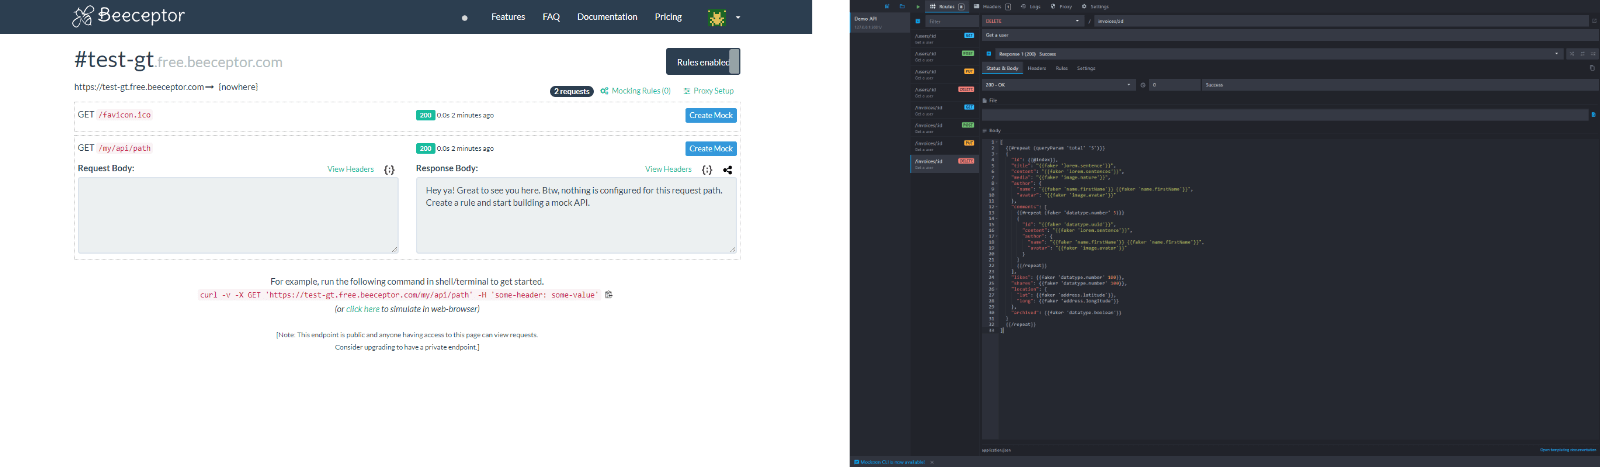
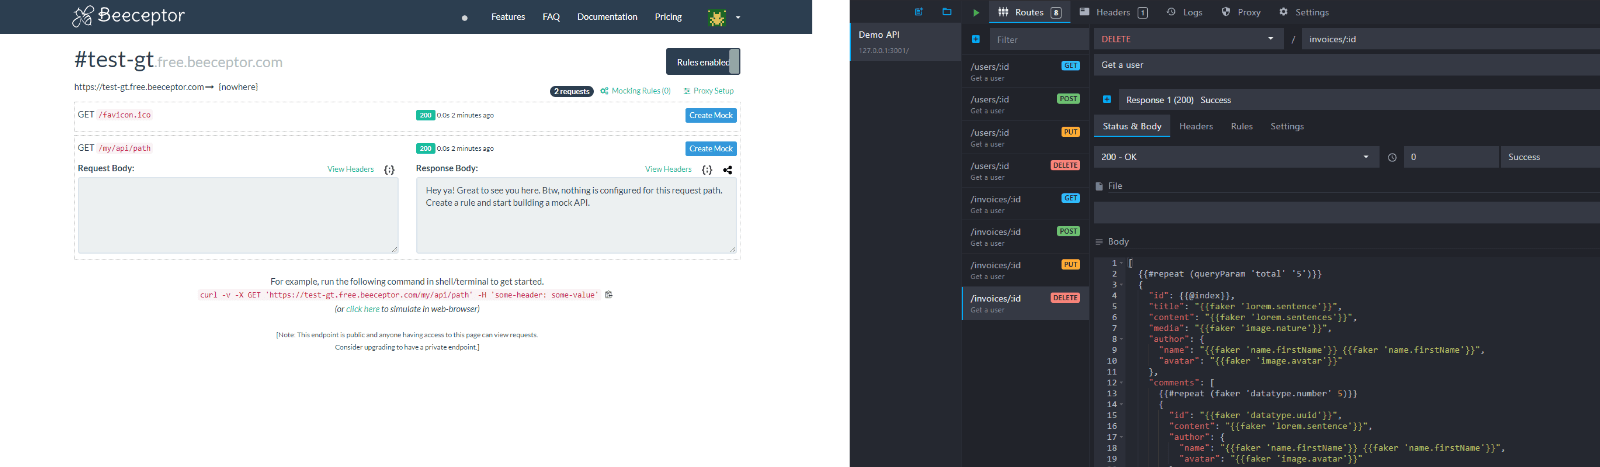
Add wiremock and mocklab comparisons

diff --git a/content/compare/wiremock.md b/content/compare/wiremock.md
@@ -1,0 +1,43 @@
+---
+title: Comparison between Mockoon and WireMock API mocking
+excerpt: Discover the differences between WireMock API mocking and Mockoon's desktop application and CLI mocking features
+meta:
+  title: Comparison between Mockoon and WireMock API mocking
+  description: Discover the differences between WireMock API mocking and Mockoon's desktop application and CLI mocking features
+image: comparison-mockoon-wiremock.png
+imageAlt: Mockoon and WireMock logos side by side
+imageWidth: 1200
+imageHeight: 400
+order: 3
+---
+
+WireMock is a mocking or stubbing Java library. It enables developers to create mock REST APIs programmatically in their Java applications. Coupled with WireMock Studio, it allows to intercept and proxy requests, or create mock endpoints from the entering requests. The mock API endpoints can account for realistic use cases thanks to a request matching system and a templating language similar to Mockoon's one. WireMock's stubs can also be deployed online using their cloud offering, [MockLab](/compare/mocklab/).
+
+While Mockoon provides a similar mocking experience, it has a different approach as it offers an offline, privacy-friendly desktop application. Accompanied by a CLI that allows you to deploy your REST mocks anywhere, it gives the power needed to automate your API development and testing.
+Mockoon is easy to use and has no learning curve. You can easily start using it and [create your first mock API in under a minute](/tutorials/getting-started/).
+From a powerful templating system to generate dynamic and realistic mock data to a proxy mode to partially mock API endpoints, Mockoon takes API mocking to the next level. It also offers many customization options: status codes, dynamic headers, rules system, etc.
+
+> What is API mocking for? Discover the different [use cases](/use-cases/) or read our [API mocking guide](/articles/what-is-api-mocking/).
+
+![#sub#WireMock (left) and Mockoon (right) UIs side by side{1600x467}](/images/compare/comparison-mockoon-wiremock-screenshot.png)
+
+## Features comparison
+
+| Features                                                       | WireMock                                                                                                                | Mockoon                                                                                                                                                                                                          |
+| -------------------------------------------------------------- | ----------------------------------------------------------------------------------------------------------------------- | ---------------------------------------------------------------------------------------------------------------------------------------------------------------------------------------------------------------- |
+| <span class="text-muted">Offline/Cloud based</span>            | **Offline**<br/>Java library or desktop application with WireMock Studio (Cloud offering: [MockLab](/compare/mocklab/)) | **Offline** (desktop application)<br/>Deploy anywhere with the [CLI](/cli/) and [Docker image](https://hub.docker.com/r/mockoon/cli)                                                                             |
+| <span class="text-muted">Free/paid service</span>              | **Free**                                                                                                                | **Free**                                                                                                                                                                                                         |
+| <span class="text-muted">Open-source</span>                    | <span class="text-success fw-bold fs-3">✔</span>                                                                        | <span class="text-success fw-bold fs-3">✔</span>                                                                                                                                                                 |
+| <span class="text-muted">CLI</span>                            | <span class="text-success fw-bold fs-3">✔</span><br/>Java application can be run with the command line                  | <span class="text-success fw-bold fs-3">✔</span> <br/>A [CLI](/cli/) and a [Docker image](https://hub.docker.com/r/mockoon/cli) are available                                                                    |
+| <span class="text-muted">Proxy mode</span>                     | <span class="text-success fw-bold fs-3">✔</span><br/>Can intercept and forward the traffic                              | <span class="text-success fw-bold fs-3">✔</span><br/>[Documentation](/tutorials/partial-mocking-proxy/)                                                                                                          |
+| <span class="text-muted">OpenAPI support </span>               | <span class="text-danger fw-bold fs-3">✖</span>                                                                         | <span class="text-success fw-bold fs-3">✔</span><br/>[Documentation](/docs/latest/openapi/import-export-openapi-format/)                                                                                         |
+| <span class="text-muted">Recording</span>                      | <span class="text-success fw-bold fs-3">✔</span><br/>Can record entering requests to create stubs                       | <span class="text-success fw-bold fs-3">✔</span><br/>Mockoon can [create mock endpoints based on entering requests](/tutorials/requests-recording-auto-mocking/)                                                 |
+| <span class="text-muted">Response rules</span>                 | <span class="text-success fw-bold fs-3">✔</span><br/>Request matching system similar to Mockoon's one                   | <span class="text-success fw-bold fs-3">✔</span><br/>Advanced system of [rules](/docs/latest/route-responses/dynamic-rules/)                                                                                     |
+| <span class="text-muted">Dynamic/realistic data</span>         | <span class="text-success fw-bold fs-3">✔</span><br/>Templating system similar to Mockoon's one                         | <span class="text-success fw-bold fs-3">✔</span><br/>[Advanced templating system](/tutorials/generate-mock-json-data/) to generate realistic fake data                                                           |
+| <span class="text-muted">File serving</span>                   | <span class="text-success fw-bold fs-3">✔</span>Basic static file serving from dedicated directory                      | <span class="text-success fw-bold fs-3">✔</span><br/>[Documentation](/docs/latest/file-serving/)                                                                                                                 |
+| <span class="text-muted">Custom headers</span>                 | <span class="text-success fw-bold fs-3">✔</span><br/>At endpoint's level                                                | <span class="text-success fw-bold fs-3">✔</span><br/>At endpoint's and server's levels<br/>Supports [templating helpers](/docs/latest/templating/overview/#headers-templating) for dynamically generated headers |
+| <span class="text-muted">Customizable status code</span>       | <span class="text-success fw-bold fs-3">✔</span>                                                                        | <span class="text-success fw-bold fs-3">✔</span>                                                                                                                                                                 |
+| <span class="text-muted">Route regex</span>                    | <span class="text-success fw-bold fs-3">✔</span>                                                                        | <span class="text-success fw-bold fs-3">✔</span><br/>[Documentation](/docs/latest/routing/)                                                                                                                      |
+| <span class="text-muted">GraphQL support</span>                | <span class="text-danger fw-bold fs-3">✖</span>                                                                         | <span class="text-danger fw-bold fs-3">✖</span>                                                                                                                                                                  |
+| <span class="text-muted">CORS and pre-flight handling</span>   | <span class="text-danger fw-bold fs-3">✖</span><br/>Manual setup                                                        | <span class="text-success fw-bold fs-3">✔</span><br/>Automatically answers 200 to OPTIONS pre-flight requests<br/>Headers can be customized                                                                      |
+| <span class="text-muted">Slow network/server simulation</span> | <span class="text-success fw-bold fs-3">✔</span><br/>At endpoint's level                                                | <span class="text-success fw-bold fs-3">✔</span><br/>At server's and endpoint's levels                                                                                                                           |

diff --git a/content/compare/mocklab.md b/content/compare/mocklab.md
@@ -1,0 +1,43 @@
+---
+title: Comparison between Mockoon and MockLab API mocking
+excerpt: Discover the differences between MockLab online API mocking and Mockoon's desktop application and CLI mocking features
+meta:
+  title: Comparison between Mockoon and MockLab API mocking
+  description: Discover the differences between MockLab online API mocking and Mockoon's desktop application and CLI mocking features
+image: comparison-mockoon-mocklab.png
+imageAlt: Mockoon and MockLab logos side by side
+imageWidth: 1200
+imageHeight: 400
+order: 4
+---
+
+MockLab is an API mocking cloud services. It uses [WireMock](/compare/wiremock/) as its underlying engine and inherits most of its capabilities, while adding more possibilities like support for the OpenAPI specification. It enables developers to create mock REST APIs endpoints, intercept and proxy requests. The fake REST endpoints can adopt realistic behavior thanks to a request matching system and a templating language similar to Mockoon's one.
+
+While Mockoon provides a similar mocking experience, it has a different approach as it offers an offline, privacy-friendly desktop application. Coupled with the CLI that allows you to deploy your REST mocks anywhere, it gives the power needed to automate your development and testing.
+Mockoon is easy to use and has no learning curve. You can easily start using it and [create your first mock API in under a minute](/tutorials/getting-started/).
+From a powerful templating system to generate dynamic and realistic mock data to a proxy mode to partially mock API endpoints, Mockoon takes API mocking to the next level. It also offers many customization options: status codes, dynamic headers, rules system, etc.
+
+> What is API mocking for? Discover the different [use cases](/use-cases/) or read our [API mocking guide](/articles/what-is-api-mocking/).
+
+![#sub#MockLab (left) and Mockoon (right) UIs side by side{1600x467}](/images/compare/comparison-mockoon-mocklab-screenshot.png)
+
+## Features comparison
+
+| Features                                                       | MockLab                                                                                               | Mockoon                                                                                                                                                                                                          |
+| -------------------------------------------------------------- | ----------------------------------------------------------------------------------------------------- | ---------------------------------------------------------------------------------------------------------------------------------------------------------------------------------------------------------------- |
+| <span class="text-muted">Offline/Cloud based</span>            | **Cloud**<br/>Uses [WireMock](/compare/wiremock/) as its underlying engine                            | **Offline** (desktop application)<br/>Deploy anywhere with the [CLI](/cli/) and [Docker image](https://hub.docker.com/r/mockoon/cli)                                                                             |
+| <span class="text-muted">Free/paid service</span>              | **Paid**<br/>Up to 1000 requests/month                                                                | **Free**                                                                                                                                                                                                         |
+| <span class="text-muted">Open-source</span>                    | <span class="text-danger fw-bold fs-3">✖</span>                                                       | <span class="text-success fw-bold fs-3">✔</span>                                                                                                                                                                 |
+| <span class="text-muted">CLI</span>                            | <span class="text-danger fw-bold fs-3">✖</span>                                                       | <span class="text-success fw-bold fs-3">✔</span> <br/>A [CLI](/cli/) and a [Docker image](https://hub.docker.com/r/mockoon/cli) are available                                                                    |
+| <span class="text-muted">Proxy mode</span>                     | <span class="text-success fw-bold fs-3">✔</span><br/>Can intercept and forward the traffic            | <span class="text-success fw-bold fs-3">✔</span><br/>[Documentation](/tutorials/partial-mocking-proxy/)                                                                                                          |
+| <span class="text-muted">OpenAPI support </span>               | <span class="text-success fw-bold fs-3">✔</span>                                                      | <span class="text-success fw-bold fs-3">✔</span><br/>[Documentation](/docs/latest/openapi/import-export-openapi-format/)                                                                                         |
+| <span class="text-muted">Recording</span>                      | <span class="text-success fw-bold fs-3">✔</span><br/>Can record entering requests to create stubs     | <span class="text-success fw-bold fs-3">✔</span><br/>Mockoon can [create mock endpoints based on entering requests](/tutorials/requests-recording-auto-mocking/)                                                 |
+| <span class="text-muted">Response rules</span>                 | <span class="text-success fw-bold fs-3">✔</span><br/>Request matching system similar to Mockoon's one | <span class="text-success fw-bold fs-3">✔</span><br/>Advanced system of [rules](/docs/latest/route-responses/dynamic-rules/)                                                                                     |
+| <span class="text-muted">Dynamic/realistic data</span>         | <span class="text-success fw-bold fs-3">✔</span><br/>Templating system similar to Mockoon's one       | <span class="text-success fw-bold fs-3">✔</span><br/>[Advanced templating system](/tutorials/generate-mock-json-data/) to generate realistic fake data                                                           |
+| <span class="text-muted">File serving</span>                   | <span class="text-success fw-bold fs-3">✔</span>Basic static file serving from dedicated directory    | <span class="text-success fw-bold fs-3">✔</span><br/>[Documentation](/docs/latest/file-serving/)                                                                                                                 |
+| <span class="text-muted">Custom headers</span>                 | <span class="text-success fw-bold fs-3">✔</span><br/>At endpoint's level                              | <span class="text-success fw-bold fs-3">✔</span><br/>At endpoint's and server's levels<br/>Supports [templating helpers](/docs/latest/templating/overview/#headers-templating) for dynamically generated headers |
+| <span class="text-muted">Customizable status code</span>       | <span class="text-success fw-bold fs-3">✔</span>                                                      | <span class="text-success fw-bold fs-3">✔</span>                                                                                                                                                                 |
+| <span class="text-muted">Route regex</span>                    | <span class="text-success fw-bold fs-3">✔</span>                                                      | <span class="text-success fw-bold fs-3">✔</span><br/>[Documentation](/docs/latest/routing/)                                                                                                                      |
+| <span class="text-muted">GraphQL support</span>                | <span class="text-danger fw-bold fs-3">✖</span>                                                       | <span class="text-danger fw-bold fs-3">✖</span>                                                                                                                                                                  |
+| <span class="text-muted">CORS and pre-flight handling</span>   | <span class="text-danger fw-bold fs-3">✖</span><br/>Manual setup                                      | <span class="text-success fw-bold fs-3">✔</span><br/>Automatically answers 200 to OPTIONS pre-flight requests<br/>Headers can be customized                                                                      |
+| <span class="text-muted">Slow network/server simulation</span> | <span class="text-success fw-bold fs-3">✔</span><br/>At endpoint's level                              | <span class="text-success fw-bold fs-3">✔</span><br/>At server's and endpoint's levels                                                                                                                           |

diff --git a/content/compare/beeceptor.md b/content/compare/beeceptor.md
@@ -12,7 +12,7 @@ order: 2
 ---
 
 Beeceptor is an online service enabling developers to mock REST APIs. It offers an easy-to-use and quick way to intercept requests and create mock API servers. The mock API endpoints are deployed to a cloud service and allow for complex configuration thanks to a rules system and a templating language identical to the one Mockoon uses.
-While Mockoon provides a similar mocking experience, it has a different approach as it offers an offline, privacy-friendly experience. Coupled with the CLI that allows you to deploy your REST mocks anywhere, it gives the power needed to automate your development and testing.
+While Mockoon provides a similar mocking experience, it has a different approach as it offers an offline, privacy-friendly desktop application. Coupled with the CLI that allows you to deploy your REST mocks anywhere, it gives the power needed to automate your development and testing.
 Mockoon is easy to use and has no learning curve. You can easily start using it and [create your first mock API in under a minute](/tutorials/getting-started/).
 From a powerful templating system to generate dynamic and realistic mock data to a proxy mode to partially mock API endpoints, Mockoon takes API mocking to the next level. It also offers many customization options: status codes, dynamic headers, rules system, etc.
 
@@ -38,5 +38,5 @@ From a powerful templating system to generate dynamic and realistic mock data to
 | <span class="text-muted">Customizable status code</span>       | <span class="text-success fw-bold fs-3">✔</span>                                                           | <span class="text-success fw-bold fs-3">✔</span>                                                                                                                                                                 |
 | <span class="text-muted">Route regex</span>                    | <span class="text-success fw-bold fs-3">✔</span>                                                           | <span class="text-success fw-bold fs-3">✔</span><br/>[Documentation](/docs/latest/routing/)                                                                                                                      |
 | <span class="text-muted">GraphQL support</span>                | <span class="text-danger fw-bold fs-3">✖</span>                                                            | <span class="text-danger fw-bold fs-3">✖</span>                                                                                                                                                                  |
-| <span class="text-muted">CORS</span>                           | <span class="text-success fw-bold fs-3">✔</span><br/>CORS is enabled on the remote server                  | <span class="text-success fw-bold fs-3">✔</span><br/>Automatically answers 200 to OPTIONS pre-flight requests<br/>Headers can be customized                                                                      |
+| <span class="text-muted">CORS and pre-flight handling</span>   | <span class="text-success fw-bold fs-3">✔</span><br/>CORS is enabled on the remote server                  | <span class="text-success fw-bold fs-3">✔</span><br/>Automatically answers 200 to OPTIONS pre-flight requests<br/>Headers can be customized                                                                      |
 | <span class="text-muted">Slow network/server simulation</span> | <span class="text-success fw-bold fs-3">✔</span><br/>At endpoint's level                                   | <span class="text-success fw-bold fs-3">✔</span><br/>At server's and endpoint's levels                                                                                                                           |

diff --git a/content/compare/postman.md b/content/compare/postman.md
@@ -39,5 +39,5 @@ From a powerful templating system to generate dynamic and realistic mock data to
 | <span class="text-muted">Customizable status code</span>       | <span class="text-success fw-bold fs-3">✔</span>                                                               | <span class="text-success fw-bold fs-3">✔</span>                                                                                                                                                                 |
 | <span class="text-muted">Route regex</span>                    | <span class="text-danger fw-bold fs-3">✖</span>                                                                | <span class="text-success fw-bold fs-3">✔</span><br/>[Documentation](/docs/latest/routing/)                                                                                                                      |
 | <span class="text-muted">GraphQL support</span>                | <span class="text-success fw-bold fs-3">✔</span>                                                               | <span class="text-danger fw-bold fs-3">✖</span>                                                                                                                                                                  |
-| <span class="text-muted">CORS</span>                           | <span class="text-success fw-bold fs-3">✔</span><br/>CORS is enabled on the remote server                      | <span class="text-success fw-bold fs-3">✔</span><br/>Automatically answers 200 to OPTIONS pre-flight requests<br/>Headers can be customized                                                                      |
+| <span class="text-muted">CORS and pre-flight handling</span>   | <span class="text-success fw-bold fs-3">✔</span><br/>CORS is enabled on the remote server                      | <span class="text-success fw-bold fs-3">✔</span><br/>Automatically answers 200 to OPTIONS pre-flight requests<br/>Headers can be customized                                                                      |
 | <span class="text-muted">Slow network/server simulation</span> | <span class="text-success fw-bold fs-3">✔</span><br/>At server's level                                         | <span class="text-success fw-bold fs-3">✔</span><br/>At server's and endpoint's levels                                                                                                                           |
